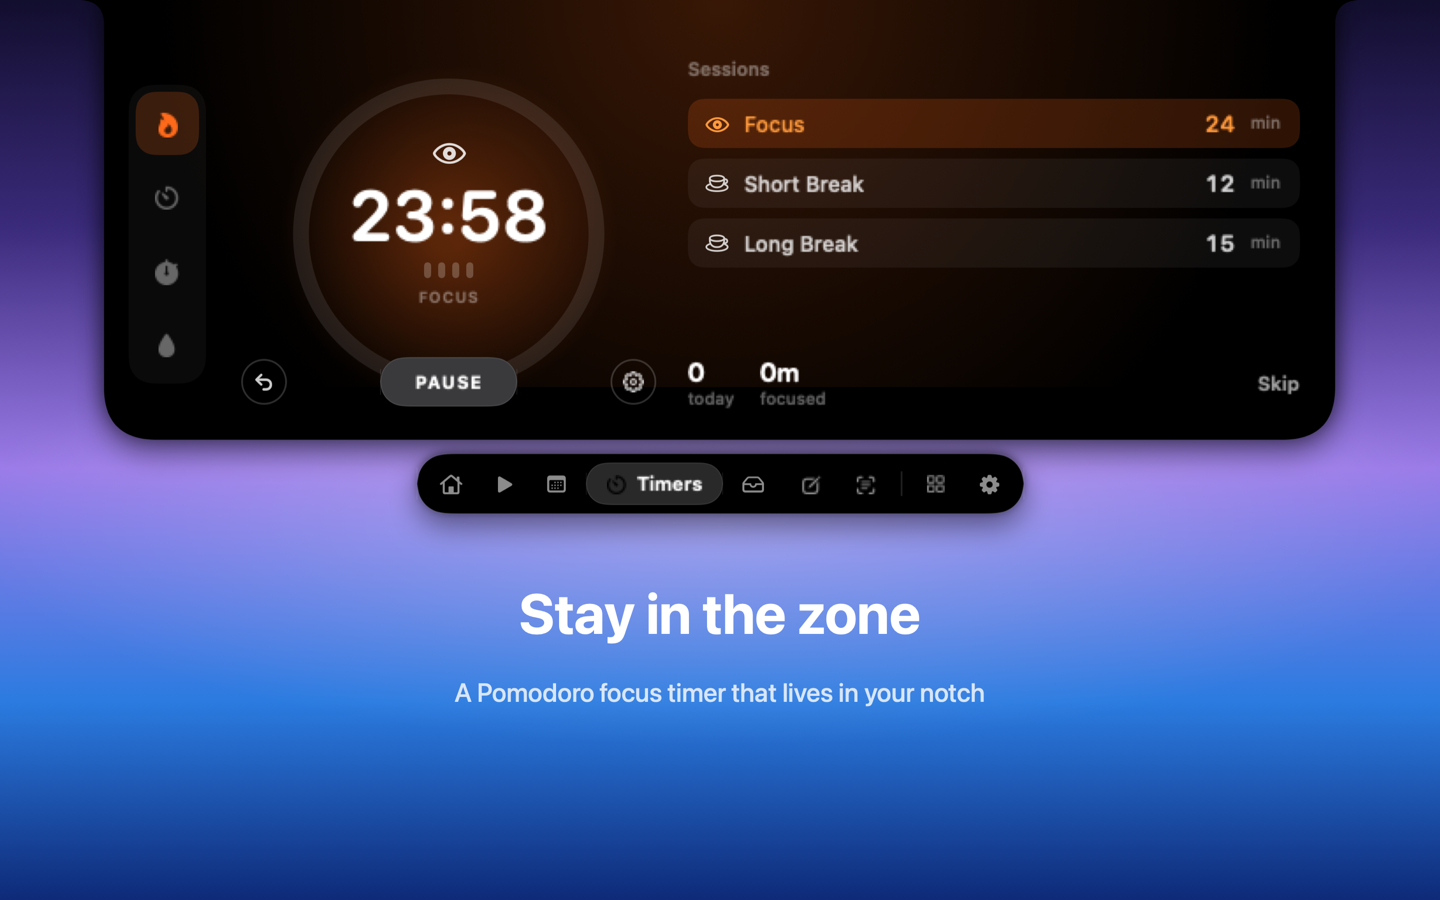
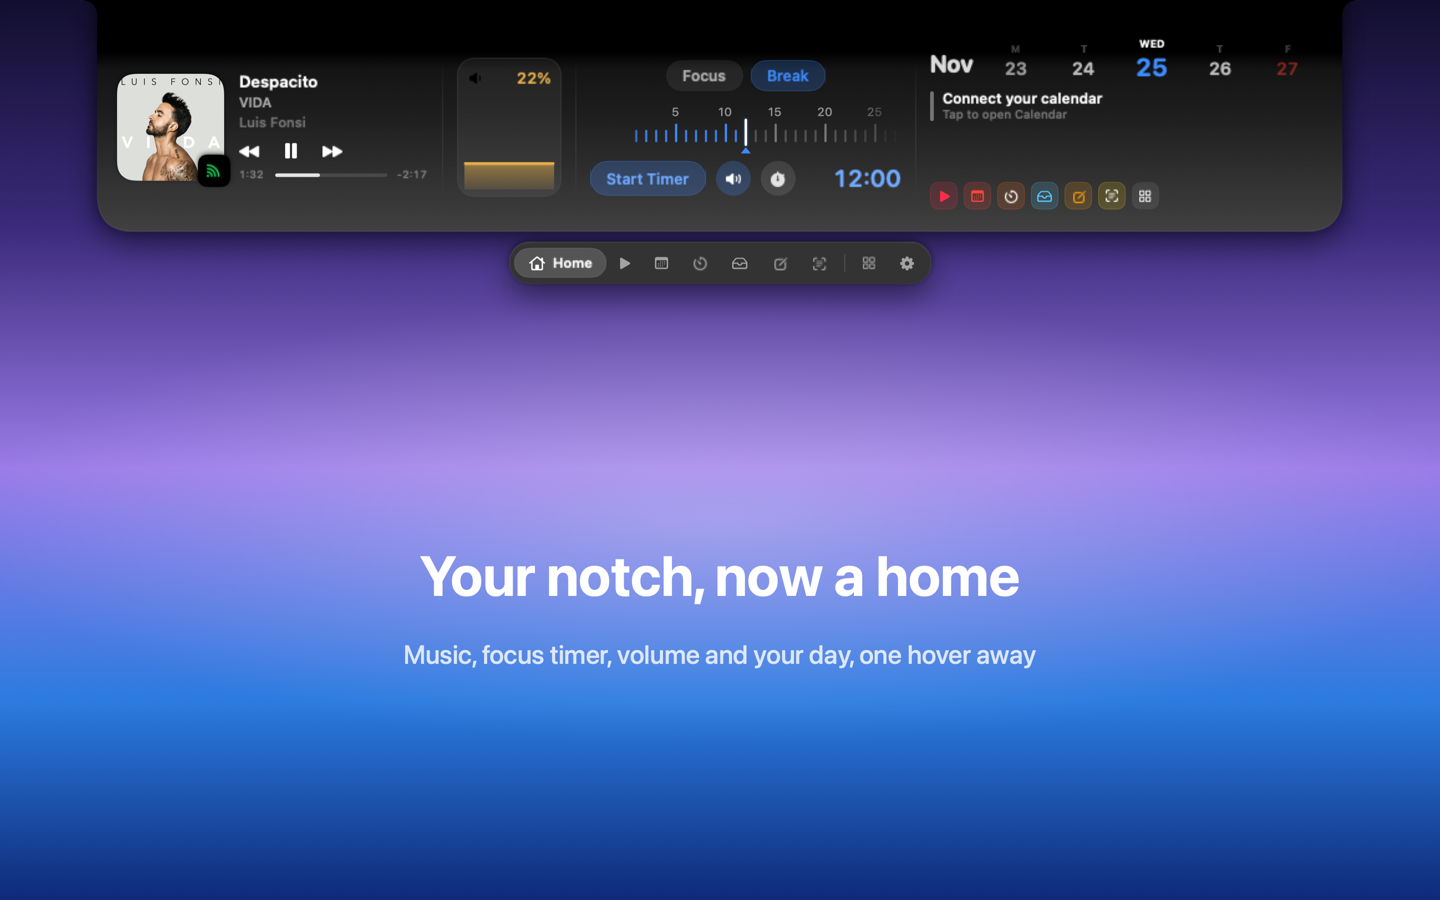
Use the Home screenshot on the support page

diff --git a/index.html b/index.html
@@ -10,7 +10,7 @@ h1{font-size:34px;line-height:1.15;margin:0 0 8px}h2{font-size:21px;margin-top:3
 footer{margin-top:48px;font-size:14px;opacity:.65}
 </style></head><body><nav><img src="icon.png" alt=""><strong>NotchLake</strong><a href="./">Support</a><a href="privacy.html">Privacy</a></nav><h1>NotchLake Support</h1>
 <p>NotchLake turns the notch on your Mac into a home for music, your calendar, timers, files and a teleprompter that follows your voice.</p>
-<img class="hero" src="home.png" alt="NotchLake focus timer under the notch">
+<img class="hero" src="home.png" alt="NotchLake Home panel under the notch">
 <h2>Contact</h2>
 <p>Questions, bug reports or ideas: <a href="mailto:ts007.me@gmail.com">ts007.me@gmail.com</a>. We usually reply within two working days. Please mention your macOS version and Mac model.</p>
 <h2>Common questions</h2>
